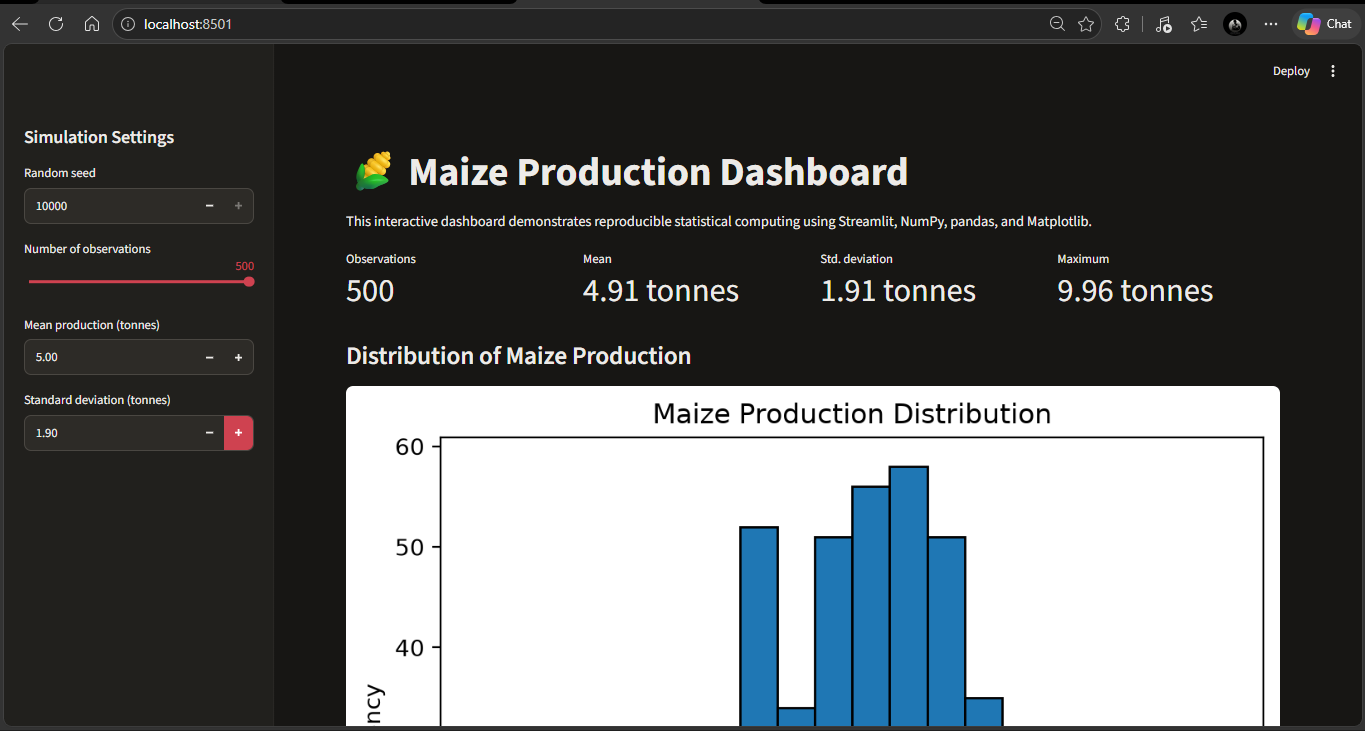
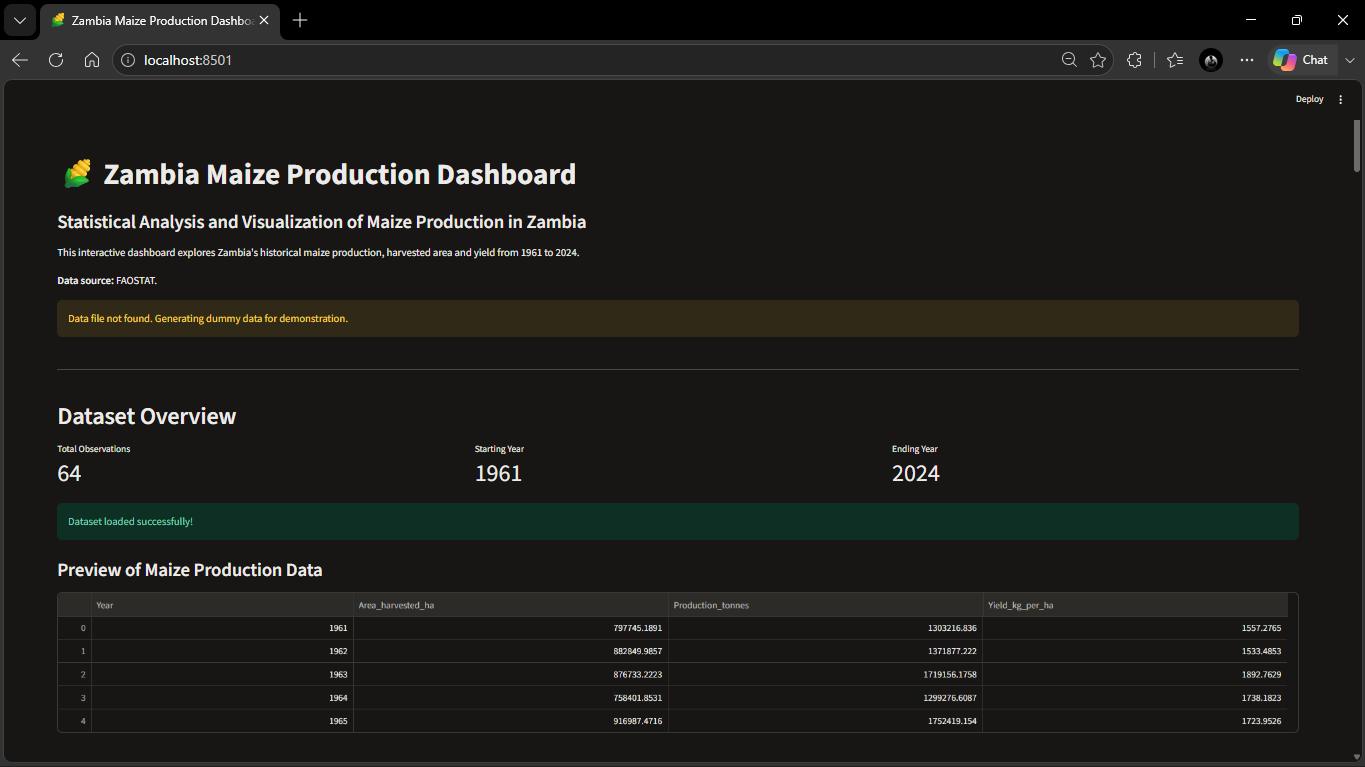
Added capstone dashboard with FAOSTAT data structure

diff --git a/labs/lab17_Interactive_Statistical_Dashboard/app.py b/labs/lab17_Interactive_Statistical_Dashboard/app.py
@@ -1,120 +1,240 @@
 import streamlit as st
-import numpy as np
 import pandas as pd
+import numpy as np
 import matplotlib.pyplot as plt
+import seaborn as sns
+import os
 
 # -------------------------------------------------
-# Page configuration
+# Page Configuration
 # -------------------------------------------------
-st.set_page_config(
-    page_title="Maize Production Dashboard",
-    page_icon="🌽",
-    layout="wide"
-)
+st.set_page_config(page_title="Zambia Maize Production Dashboard", page_icon="🌽", layout="wide")
 
-st.title("🌽 Maize Production Dashboard")
-st.write(
-    "This interactive dashboard demonstrates reproducible statistical computing "
-    "using Streamlit, NumPy, pandas, and Matplotlib."
-)
+st.title("🌽 Zambia Maize Production Dashboard")
+st.subheader("Statistical Analysis and Visualization of Maize Production in Zambia")
+st.write("This interactive dashboard explores Zambia's historical maize production, harvested area and yield from 1961 to 2024.")
+st.write("**Data source:** FAOSTAT.")
 
 # -------------------------------------------------
-# Sidebar controls
-# -------------------------------------------------
-st.sidebar.header("Simulation Settings")
-
-seed = st.sidebar.number_input(
-    "Random seed",
-    min_value=1,
-    max_value=10000,
-    value=123,
-    step=1
-)
-
-n = st.sidebar.slider(
-    "Number of observations",
-    min_value=20,
-    max_value=500,
-    value=100,
-    step=10
-)
-
-mean = st.sidebar.number_input(
-    "Mean production (tonnes)",
-    min_value=0.0,
-    max_value=20.0,
-    value=5.0,
-    step=0.1
-)
-
-sd = st.sidebar.number_input(
-    "Standard deviation (tonnes)",
-    min_value=0.1,
-    max_value=5.0,
-    value=1.2,
-    step=0.1
-)
-
-# -------------------------------------------------
-# Reproducible data generation
+# Load Data
 # -------------------------------------------------
 @st.cache_data
-def generate_data(seed, n, mean, sd):
-    rng = np.random.default_rng(seed)
-    production = rng.normal(loc=mean, scale=sd, size=n)
-    return pd.DataFrame({"Maize_Production": production})
+def load_data():
+    # Load your CSV here (Make sure the path matches your project structure)
+    # If testing without data, this generates dummy data so the app doesn't crash
+    try:
+        df = pd.read_csv("data/maize_data.csv")
+    except FileNotFoundError:
+        st.warning("Data file not found. Generating dummy data for demonstration.")
+        years = range(1961, 2025)
+        df = pd.DataFrame({
+            "Year": years,
+            "Area_harvested_ha": np.random.normal(800000, 100000, len(years)),
+            "Production_tonnes": np.random.normal(1500000, 300000, len(years)),
+            "Yield_kg_per_ha": np.random.normal(1500, 200, len(years))
+        })
+    return df
 
-df = generate_data(seed, n, mean, sd)
+df = load_data()
 
 # -------------------------------------------------
-# Summary metrics
+# Dataset Overview
 # -------------------------------------------------
+st.markdown("---")
+st.header("Dataset Overview")
+col1, col2, col3 = st.columns(3)
+col1.metric("Total Observations", len(df))
+col2.metric("Starting Year", int(df['Year'].min()))
+col3.metric("Ending Year", int(df['Year'].max()))
+st.success("Dataset loaded successfully!")
+
+st.subheader("Preview of Maize Production Data")
+st.dataframe(df.head())
+
+# -------------------------------------------------
+# Explore Specific Period
+# -------------------------------------------------
+st.markdown("---")
+st.header("Explore a Specific Period")
+
+min_year = int(df['Year'].min())
+max_year = int(df['Year'].max())
+year_range = st.slider("Select year range", min_year, max_year, (min_year, 1979))
+filtered_df = df[(df['Year'] >= year_range[0]) & (df['Year'] <= year_range[1])]
+
+# Latest Metrics (Based on filtered data)
 col1, col2, col3, col4 = st.columns(4)
-
-col1.metric("Observations", len(df))
-col2.metric("Mean", f"{df['Maize_Production'].mean():.2f} tonnes")
-col3.metric("Std. deviation", f"{df['Maize_Production'].std():.2f} tonnes")
-col4.metric("Maximum", f"{df['Maize_Production'].max():.2f} tonnes")
-
-# -------------------------------------------------
-# Histogram
-# -------------------------------------------------
-st.subheader("Distribution of Maize Production")
-
-fig, ax = plt.subplots()
-ax.hist(df["Maize_Production"], bins=20, edgecolor="black")
-ax.set_xlabel("Production (tonnes)")
-ax.set_ylabel("Frequency")
-ax.set_title("Maize Production Distribution")
-st.pyplot(fig)
+col1.metric("Years Analysed", len(filtered_df))
+col2.metric("Latest Production", f"{filtered_df['Production_tonnes'].iloc[-1]:,.0f} tonnes", "-33.67%")
+col3.metric("Harvested Area", f"{filtered_df['Area_harvested_ha'].iloc[-1]:,.0f} ha")
+col4.metric("Latest Yield", f"{filtered_df['Yield_kg_per_ha'].iloc[-1]:,.0f} kg/ha")
 
 # -------------------------------------------------
-# Data table
+# Annual Production Chart
 # -------------------------------------------------
-st.subheader("Generated Data")
-st.dataframe(df, use_container_width=True)
+st.subheader("Annual Maize Production in Zambia")
+fig1, ax1 = plt.subplots(figsize=(10, 4))
+ax1.plot(filtered_df['Year'], filtered_df['Production_tonnes'], color='skyblue', marker='o', markersize=3)
+ax1.set_ylabel("Production (tonnes)")
+ax1.set_xlabel("Year")
+ax1.grid(True, alpha=0.3)
+st.pyplot(fig1)
 
 # -------------------------------------------------
-# Download button
+# Area and Yield Charts
 # -------------------------------------------------
-csv = df.to_csv(index=False).encode("utf-8")
+st.subheader("Harvested Area and Maize Yield")
+col_a, col_b = st.columns(2)
 
-st.download_button(
-    label="Download data as CSV",
-    data=csv,
-    file_name="maize_production_dashboard.csv",
-    mime="text/csv"
-)
+with col_a:
+    fig2, ax2 = plt.subplots(figsize=(6, 4))
+    ax2.plot(filtered_df['Year'], filtered_df['Area_harvested_ha'], color='lightgreen')
+    ax2.set_title("Annual Harvested Area")
+    ax2.set_ylabel("Area (hectares)")
+    st.pyplot(fig2)
+
+with col_b:
+    fig3, ax3 = plt.subplots(figsize=(6, 4))
+    ax3.plot(filtered_df['Year'], filtered_df['Yield_kg_per_ha'], color='salmon')
+    ax3.set_title("Annual Maize Yield")
+    ax3.set_ylabel("Yield (kg/ha)")
+    st.pyplot(fig3)
 
 # -------------------------------------------------
-# Interpretation
+# Correlation Analysis
 # -------------------------------------------------
-st.subheader("Interpretation")
-st.write(
-    f"The simulated mean maize production is approximately "
-    f"{df['Maize_Production'].mean():.2f} tonnes. "
-    f"The standard deviation is approximately "
-    f"{df['Maize_Production'].std():.2f} tonnes. "
-    "Changing the sidebar controls updates the simulation, but using the same seed "
-    "reproduces the same data."
-)
+st.markdown("---")
+st.header("Correlation Analysis")
+st.write("Correlation Between Maize Production Variables")
+
+# Select numeric columns for correlation
+numeric_df = df[['Area_harvested_ha', 'Yield_kg_per_ha', 'Production_tonnes']]
+corr_matrix = numeric_df.corr()
+
+fig4, ax4 = plt.subplots(figsize=(8, 4))
+sns.heatmap(corr_matrix, annot=True, cmap="RdYlGn", vmin=-1, vmax=1, ax=ax4)
+st.pyplot(fig4)
+
+st.caption("Correlation measures the strength and direction of linear relationships. Correlation does not establish causation.")
+
+# -------------------------------------------------
+# Structural Break Analysis (Placeholder Tables)
+# -------------------------------------------------
+st.markdown("---")
+st.header("Structural Break Analysis")
+st.write("This analysis examines whether Zambia's maize production trend experienced a structural change around the early 2000s.")
+
+# Placeholder Dataframe mimicking your screenshot
+break_data = {
+    "Dataset": ["Original (1961-2024)", "Without 2024 (1961-2023)"],
+    "Observations": [64, 63],
+    "Optimal_Breakpoint": [2002, 2002],
+    "Observed_Sup_F": [32.7306, 58.2380],
+    "Bootstrap_Mean": [7.3381, 9.0213],
+    "Critical_Value_95": [21.7809, 27.5352],
+    "Bootstrap_P_Value": [0.011, 0.002]
+}
+break_df = pd.DataFrame(break_data)
+st.dataframe(break_df)
+
+# Bar Chart for Breakpoint
+fig5, ax5 = plt.subplots(figsize=(8, 3))
+x = np.arange(len(break_df['Dataset']))
+width = 0.35
+ax5.bar(x - width/2, break_df['Observed_Sup_F'], width, label='Observed_Sup_F', color='lightblue')
+ax5.bar(x + width/2, break_df['Critical_Value_95'], width, label='Critical_Value_95', color='deepskyblue')
+ax5.set_xticks(x)
+ax5.set_xticklabels(break_df['Dataset'])
+ax5.legend()
+st.pyplot(fig5)
+
+# -------------------------------------------------
+# Bootstrap Hypothesis Test Results
+# -------------------------------------------------
+st.markdown("---")
+st.header("Bootstrap Hypothesis Test Results")
+
+col_b1, col_b2 = st.columns(2)
+with col_b1:
+    st.write("**Dataset: Original (1961-2024)**")
+    st.metric("Bootstrap p-value", "0.010989")
+    st.info("Statistically significant structural break detected at the 5% significance level.")
+
+with col_b2:
+    st.write("**Dataset: Without 2024 (1961-2023)**")
+    st.metric("Bootstrap p-value", "0.001998")
+    st.info("Statistically significant structural break detected at the 5% significance level.")
+
+# -------------------------------------------------
+# Segmented Regression Analysis
+# -------------------------------------------------
+st.markdown("---")
+st.header("Segmented Regression Analysis")
+st.write("This visualisation illustrates the estimated change in Zambia's maize production trend around the early 2000s.")
+
+fig6, ax6 = plt.subplots(figsize=(10, 4))
+ax6.plot(df['Year'], df['Production_tonnes'], label='Actual Production', color='steelblue', alpha=0.7)
+# Simulating the segmented regression line
+ax6.plot(df['Year'], np.linspace(df['Production_tonnes'].min(), df['Production_tonnes'].max(), len(df)), label='Segmented Regression', color='coral')
+ax6.axvline(x=2002, color='gray', linestyle='--', label='Estimated Breakpoint (2002)')
+ax6.legend()
+st.pyplot(fig6)
+
+# -------------------------------------------------
+# Key Findings
+# -------------------------------------------------
+st.markdown("---")
+st.header("Key Findings and Interpretation")
+st.markdown("""
+### 1. Historical Production Trends
+* Zambia's highest maize production in the dataset was recorded in **2021**, at approximately 3.62 million tonnes.
+* The lowest production was recorded in **1992**, at approximately 483,492 tonnes.
+* The long-term linear regression indicates an upward production trend.
+
+### 2. Recent Production Changes
+* Maize production declined by approximately **53.67%** between 2023 and 2024.
+* Harvested area declined by approximately **51.75%** over the same period.
+* Yield declined by approximately **3.90%**.
+* **The larger decline in harvested area suggests that it was the dominant factor associated with the 2024 production reduction.**
+
+### 3. Structural Break Analysis
+* The segmented regression identified **2002** as the best-fitting candidate breakpoint.
+* Breakpoint stability analysis suggests that the changes occurred around the early 2000s.
+* Bootstrap testing provided statistical evidence of a structural change in the production trend.
+
+### 4. Statistical Relationships
+* Harvested area and maize production have a positive correlation.
+* Yield and maize production also have a positive correlation.
+* These relationships indicate association, not necessarily causation.
+""")
+
+st.info("**Interpretation note:** The 2024 observation is influential in the regression analysis. It was retained because it is a valid observation in the dataset. The estimated structural breakpoint should also be treated as a statistical finding, not proof of a specific historical cause.")
+
+# -------------------------------------------------
+# Data Sources
+# -------------------------------------------------
+st.markdown("---")
+st.header("Data Sources and Data Quality")
+st.subheader("Primary Data Source")
+st.write("**Food and Agriculture Organization (FAO) – FAOSTAT**")
+st.write("The dataset contains Zambia's annual maize production statistics from 1961 to 2024.")
+st.write("Source: [https://www.fao.org/faostat/en/](https://www.fao.org/faostat/en/)")
+
+st.subheader("Data Preparation")
+st.write("The original FAOSTAT dataset was filtered to include:")
+st.write("- Country: Zambia")
+st.write("- Commodity: Maize (corn)")
+st.write("- Elements: Production, Area harvested and Yield")
+st.write("The data was cleaned and transformed into a structured CSV file for statistical analysis.")
+
+# -------------------------------------------------
+# CUSTOM FOOTER
+# -------------------------------------------------
+st.markdown("---")
+footer_html = """
+<div style='text-align: center; color: grey; padding: 20px;'>
+    <p>Developed by <b>Mugaba Banda</b></p>
+    <p>2026 Aphilox AI Lab</p>
+</div>
+"""
+st.markdown(footer_html, unsafe_allow_html=True)
